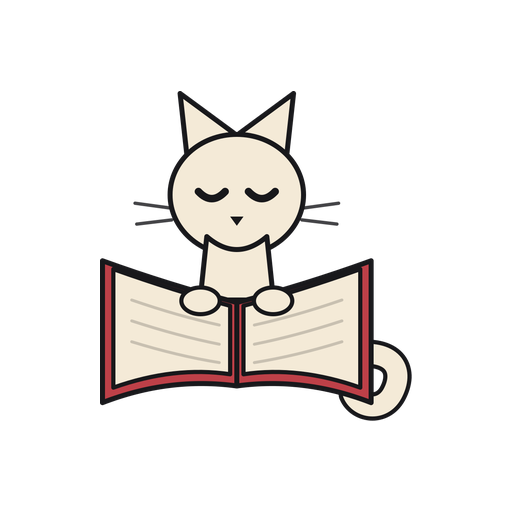
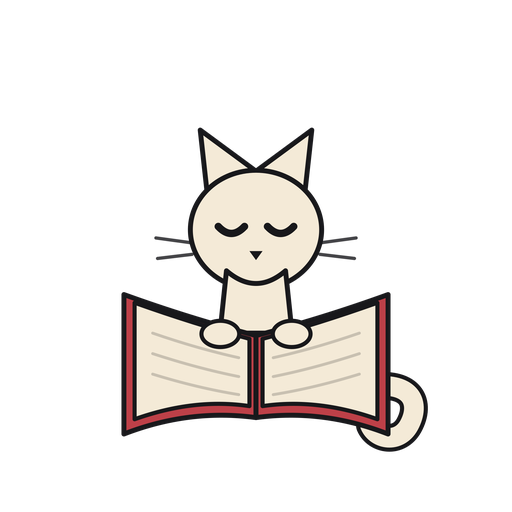
feat(ui): icono y splash con fondo blanco y nombre Novel Library (0.4.0-10)

Changed region(s): [[0.1875, 0.1562, 0.8438, 0.9062]]

diff --git a/specs/0.4.0/10-pulido-visual.md b/specs/0.4.0/10-pulido-visual.md
@@ -2,7 +2,7 @@
 code: "10"
 title: "Pulido visual: notificaciones, icono y splash"
 project: "novel-library-mobile"
-status: in-progress
+status: completed
 version: "0.4.0"
 date: 2026-11-08
 tags: [spec, sdd, ui, visual, android]
@@ -10,8 +10,9 @@ affected_files:
   - global.css
   - app.json
   - assets/images/icon.png
-  - assets/images/adaptive-icon.png
-  - assets/images/splash-icon.png
+  - assets/images/android-icon-foreground.png
+  - assets/images/splash-icon-android.png
+  - assets/images/favicon.png
   - docs/arquitectura.md
 ---
 
@@ -54,8 +55,11 @@ lugar de solo un cambio de color.
 
 ### Splash
 
-- Splash con fondo `#fbf8f6` (claro) / `#121110` (oscuro) y marca/wordmark
-  centrados; sin imágenes con transparencia problemática.
+- Splash con fondo `#fbf8f6` (claro) / `#121110` (oscuro) y una insignia
+  circular crema con el gato, centrada y dentro del área segura del icono.
+- Android 12+ recorta el splash con una máscara circular: un lockup horizontal
+  con wordmark se corta, así que se usa la insignia cuadrada; el nombre de la
+  app queda en el launcher.
 - Usar el plugin de splash de Expo; no editar `android/` a mano.
 - Rebuild de dev client/release para validar (los assets nativos no se ven con
   Fast Refresh).
@@ -86,9 +90,22 @@ lugar de solo un cambio de color.
 
 ## Acceptance criteria
 
-- [ ] Toast plano, radio 16, sombra suave y sin borde en claro/oscuro.
-- [ ] Icono con fondo blanco opaco y adaptive icon correcto.
-- [ ] Splash con marca, no solo color de fondo.
-- [ ] Rail de fila completa intacto.
-- [ ] `npx tsc --noEmit` y `npx expo lint` pasan.
-- [ ] Solo Android y un emulador a la vez.
+- [x] Toast plano, radio 16, sombra suave y sin borde en claro/oscuro.
+- [x] Icono con fondo blanco opaco y adaptive icon correcto.
+- [x] Splash con insignia, no solo color de fondo.
+- [x] Rail de fila completa intacto.
+- [x] `npx tsc --noEmit` y `npx expo lint` pasan.
+- [x] Solo Android y un emulador a la vez.
+
+## Notas de cierre (2026-11-08)
+
+- El Toast se ha ajustado por CSS en `global.css`: radio 16, padding 12×16,
+  fondo `surface`, sin borde y sombra suave.
+- Icono: `icon.png` con fondo blanco + tile crema; adaptive icon con
+  `backgroundColor: "#ffffff"` y gato transparente. En el launcher se ve blanco,
+  sin fondo negro, y el nombre visible es **Novel Library**.
+- Splash: Android 12 recorta con máscara circular; se sustituyó el lockup
+  horizontal por una insignia circular crema con el gato, validada en cold
+  start. El lockup horizontal se descartó para Android.
+- `expo-doctor`, TalkBack con audio y límites de fuente quedan para la pasada
+  de QA/mantenimiento.

diff --git a/specs/0.4.0/00-changelog.md b/specs/0.4.0/00-changelog.md
@@ -18,14 +18,16 @@ El estado de cada spec vive en su frontmatter y se resume en la tabla.
 | 2026-11-07 | 07 | **completed** — QA móvil/tablet secuencial, claro/oscuro, font scale 1.3/2.0 con correcciones de rail y ListRow, revisión de árbol a11y, capturas en `/tmp/opencode/novel-library-0.4.0/`; `expo-doctor` con drift preexistente documentado |
 | 2026-11-07 | 08 | **completed** — Idioma preferido global (por defecto ES) en Ajustes y pastillas `Original`/`ES` en Detalle que listan una sola versión, con fallback y override local |
 | 2026-11-08 | 09 | **completed** — Contrato API 0.3.1: progreso con `chapters_total` real y `N / total (P %)`, 409 con `job_id` (adjuntar sin reintentar), `cancelling` no terminal, copy de reanudación y limpieza de EPUBs locales al reparar/regenerar; mock con job lento y conflicto forzado |
+| 2026-11-08 | 10 | **completed** — Pulido visual: toasts planos sin borde, icono con fondo blanco opaco, nombre “Novel Library” y splash con insignia circular crema; rail de fila completa intacto |
 
 ## Orden de implementación
 
-01 → 02 → 03 → 04 → 05 → 08 → 06 → 07 → 09. 02 crea la ruta `/download`; 03
-la rellena; 04 y 05 comparten los componentes de 01; 08 añade el ajuste de
-idioma sobre el hub de 05 y el selector en `DetailContent`; 06 reutiliza el
-contenido compacto de 04 ya con selector; 07 es el gate visual; 09 entra
-después para adaptar jobs/errores al contrato 0.3.1 y revalidar esos flujos.
+01 → 02 → 03 → 04 → 05 → 08 → 06 → 07 → 09 → 10. 02 crea la ruta
+`/download`; 03 la rellena; 04 y 05 comparten los componentes de 01; 08 añade
+el ajuste de idioma sobre el hub de 05 y el selector en `DetailContent`; 06
+reutiliza el contenido compacto de 04 ya con selector; 07 es el gate visual;
+09 adapta jobs/errores al contrato 0.3.1; 10 cierra el pulido de
+notificaciones/icono/splash.
 
 ## Emuladores y RAM
 
@@ -42,6 +44,7 @@ para esta versión; no aportan a la matriz y consumen RAM.
 | 06 | `tablet` → `Medium_Tablet` (2560×1600, Android 35, landscape) | solo; rotar a portrait y volver |
 | 07 | `mobile` → `tablet` | **secuencial**: mobile, matar, tablet, matar |
 | 09 | `mobile` → `Expo`; tablet solo si se toca el panel | solo; revalidar jobs/estados |
+| 10 | `mobile` → `Expo` | solo; rebuild nativo para icono/splash |
 
 Al terminar cada spec:
 

diff --git a/docs/arquitectura.md b/docs/arquitectura.md
@@ -375,9 +375,12 @@ Deep link del dev client (usa el slug, no el scheme de `app.json`):
 - Con `apiUrl` vacía la app funciona 100% en mock (6 novelas de ejemplo, jobs
   simulados con `pending → running → done` y cancelación). Con URL usa la
   biblioteca real.
-- **Pendiente conocido**: arte propio del icono/splash (solo se cambiaron los
-  fondos); "Restablecer ajustes" (spec futura); persistir filtros de Biblioteca
-  entre sesiones.
+- **Icono/splash (0.4.0-10)**: icono con fondo blanco opaco y tile crema,
+  adaptive icon blanco y splash circular crema con el gato; nombre de la app
+  “Novel Library”. El lockup con wordmark se descartó en Android 12 por la
+  máscara circular del sistema.
+- **Pendiente conocido**: "Restablecer ajustes" (spec futura); persistir filtros
+  de Biblioteca entre sesiones; drift de `expo-doctor`.
 - Fuera de alcance por ahora: WebSocket `/ws` (progreso fino), bandeja global
   de jobs, `expo-secure-store` para el token, descargas masivas por selección y
   limpieza de EPUB descargados.
